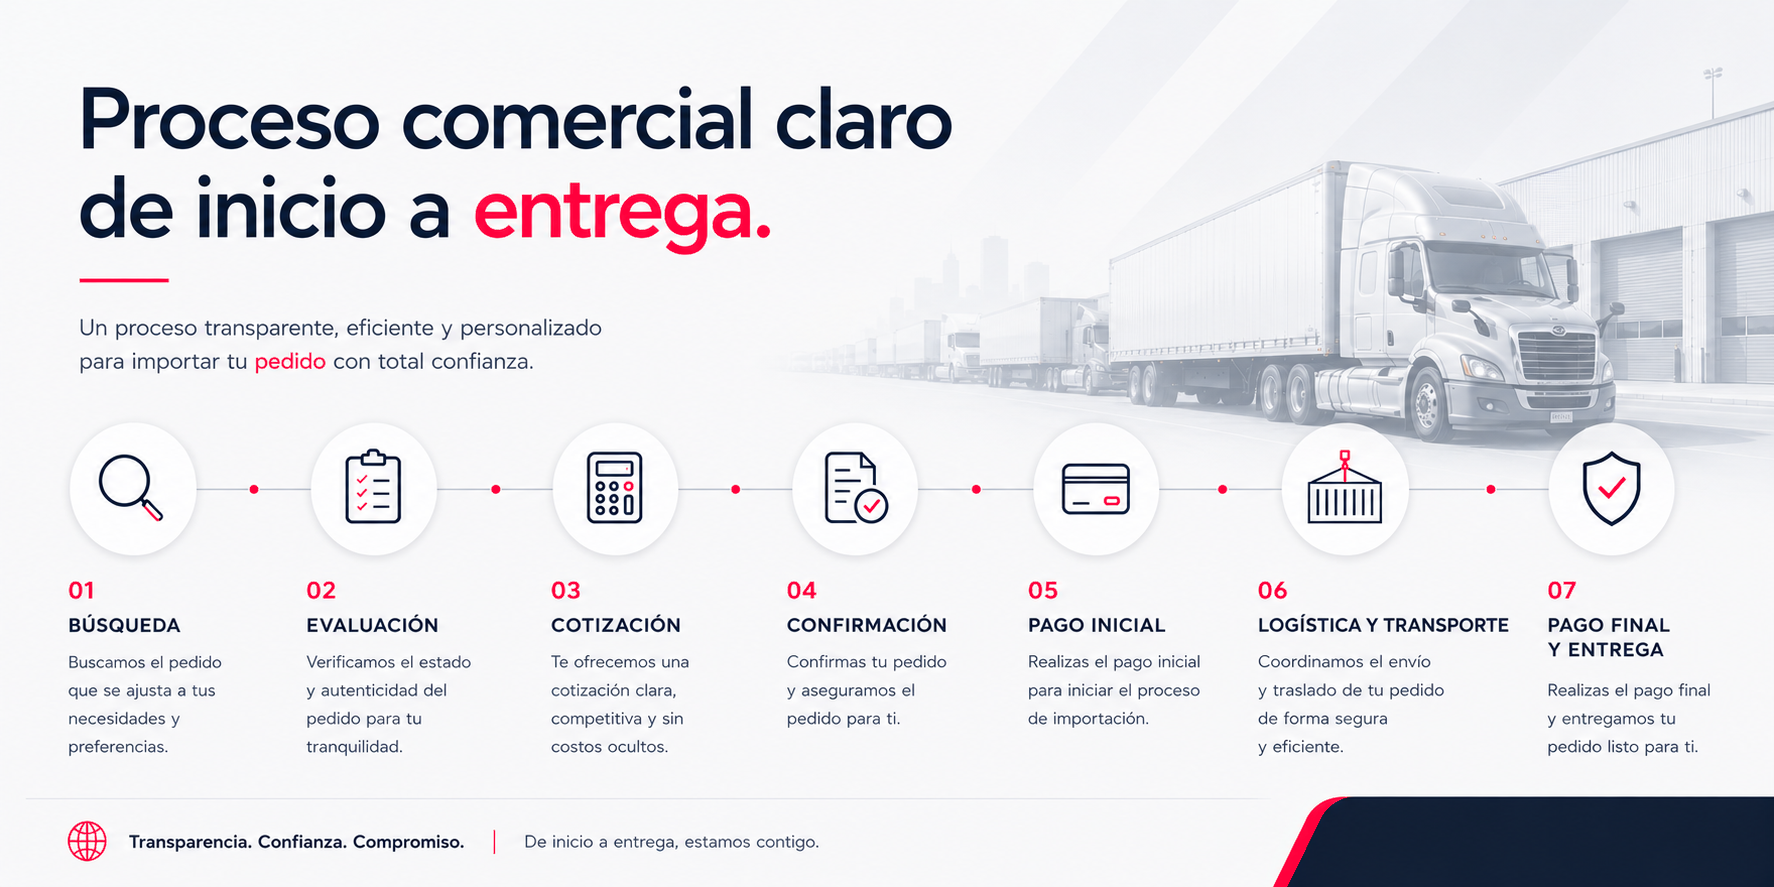
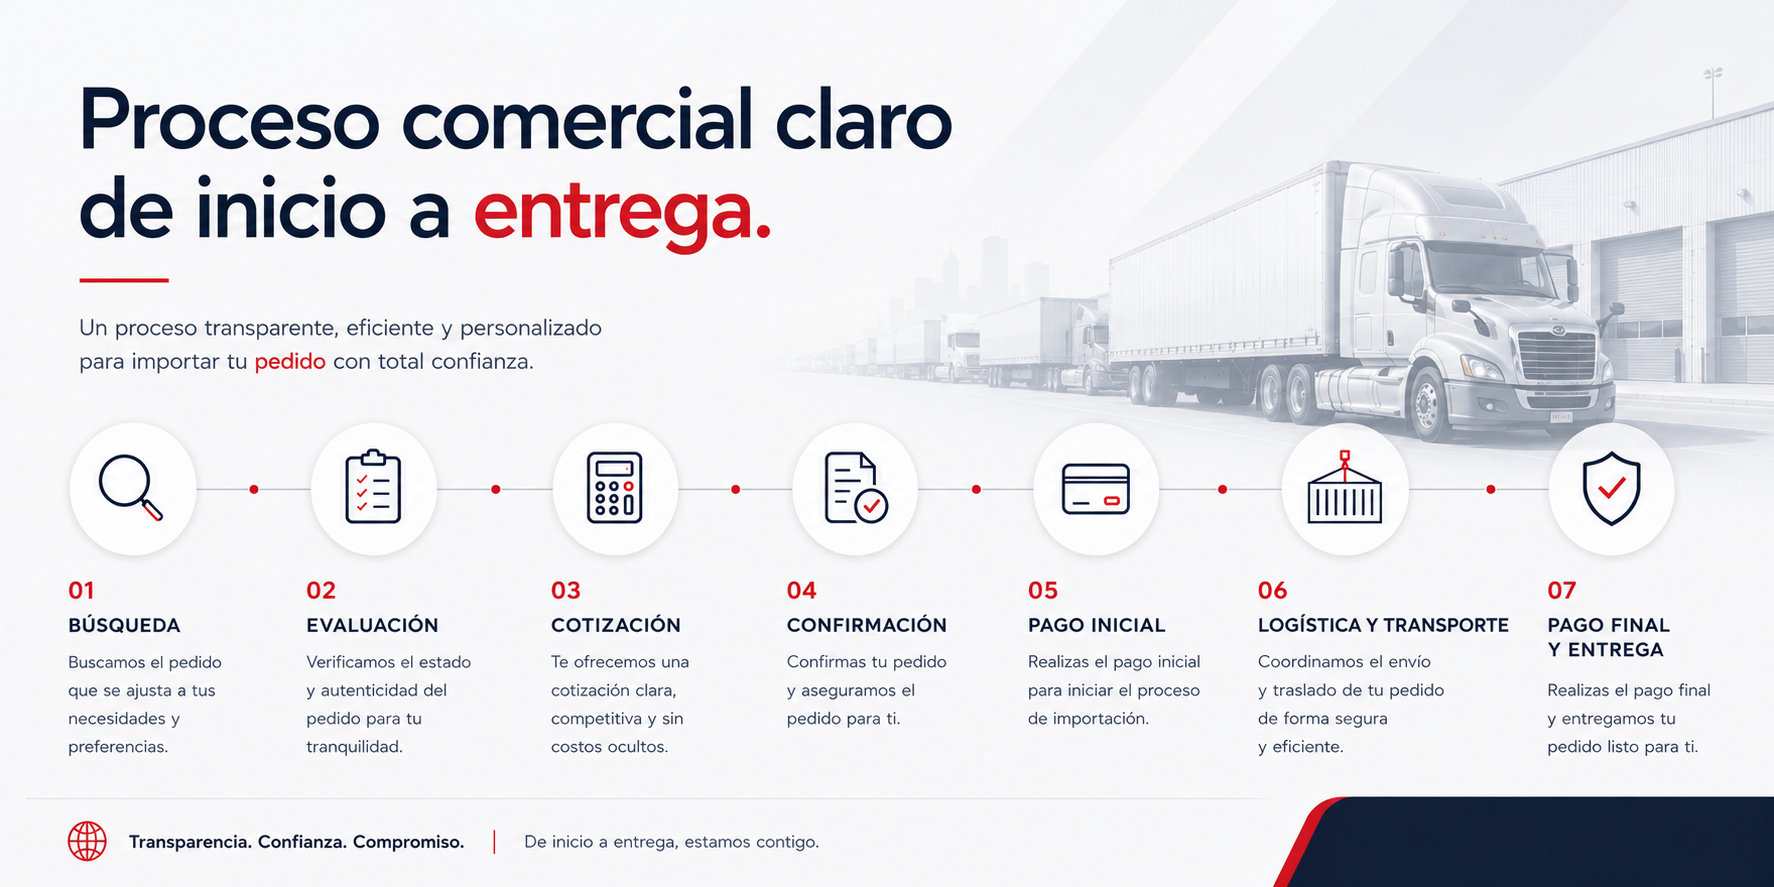
Add files via upload

diff --git a/index.html b/index.html
@@ -53,10 +53,10 @@
 
       <section class="stats section-dark" aria-label="Diferenciales de Panacamión">
         <div class="container stats-grid">
-          <div><span>01</span><strong>Selección estratégica</strong><p>Unidades y piezas elegidas con enfoque en rendimiento, operación y rentabilidad.</p></div>
-          <div><span>02</span><strong>Pedidos personalizados</strong><p>Búsqueda de camiones, piezas y configuraciones según las necesidades del cliente.</p></div>
-          <div><span>03</span><strong>Importación transparente</strong><p>Proceso claro desde origen hasta entrega, con comunicación directa durante la operación.</p></div>
-          <div><span>04</span><strong>Enfoque operativo</strong><p>Soluciones pensadas para transporte, logística, carga regional y trabajo comercial.</p></div>
+          <div><span>01</span><strong>Selección estratégica</strong><p>Unidades y repuestos rigurosamente evaluados para garantizar el máximo rendimiento, menores costos operativos y alta rentabilidad en la región.</p></div>
+          <div><span>02</span><strong>Pedidos personalizados</strong><p>Buscamos e importamos camiones, motores y configuraciones técnicas exactas según las especificaciones y necesidades de su negocio.</p></div>
+          <div><span>03</span><strong>Importación transparente</strong><p>Proceso logístico claro y confiable desde origen en EE. UU. hasta la entrega final, con comunicación directa y sin costos ocultos.</p></div>
+          <div><span>04</span><strong>Enfoque operativo</strong><p>Soluciones diseñadas por expertos que entienden las exigencias reales del transporte, la logística y la carga pesada en Centroamérica.</p></div>
         </div>
       </section>
 
@@ -67,7 +67,7 @@
             <h2>Importación comercial con enfoque operativo.</h2>
           </div>
           <p class="lead">
-            Panacamión trabaja con empresas y operadores que buscan unidades comerciales, piezas y configuraciones específicas desde Estados Unidos, con enfoque en funcionalidad, criterio operativo y visión comercial.
+            Sabemos que un camión detenido es dinero perdido. Nuestro proceso va más allá de la compra-venta: evaluamos el rendimiento y la compatibilidad en origen para ofrecerle una importación transparente, eficiente y diseñada para proteger la rentabilidad de su flota.
           </p>
         </div>
       </section>
@@ -114,7 +114,7 @@
                   <img class="gallery-slide" src="./freightliner-cascadia-125-side.JPG" alt="Freightliner Cascadia 125 vista lateral" />
                   <img class="gallery-slide" src="./freightliner-cascadia-125-rear.JPG" alt="Freightliner Cascadia 125 vista trasera" />
                 </button>
-                <span>Sleeper</span>
+                <span>Camarote</span>
                 <div class="gallery-controls" aria-label="Galería Freightliner Cascadia 125">
                   <button type="button" class="gallery-dot is-active" aria-label="Ver foto 1"></button>
                   <button type="button" class="gallery-dot" aria-label="Ver foto 2"></button>